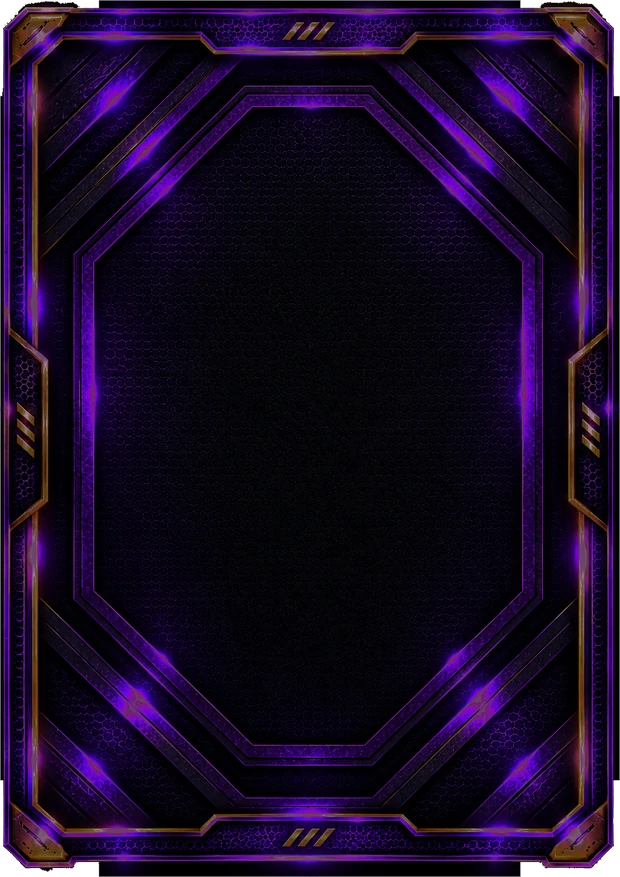
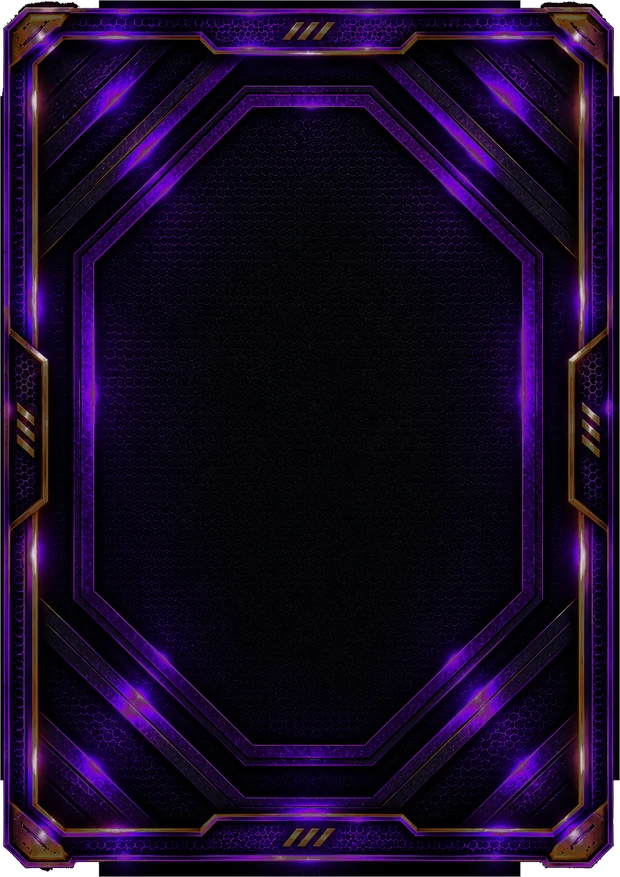
Más luz en el resplandor, y el dorado de la épica brilla dorado
Dos cosas suyas, las dos medidas.

1. MÁS INTENSIDAD, NO MÁS VELOCIDAD. "haz que sea un poco más fuerte en
   ambas, y en épica un poco más ... no la velocidad, sino la intensidad y
   brillo de la luz". Así que sube el brillo de la capa de resplandor
   (REFUERZO 1,20 en la rara y 1,38 en la épica) y el latido se queda como
   estaba: 3,6 s, de 1 a 0,45.

   No contradice lo de antes —aquello era el resplandor REVENTADO EN
   BLANCO—: esto es más luz CON su color. La rara topa en 223 y la épica en
   235 sobre 255, ninguna llega a los 250 donde el color se pierde, y la
   saturación de lo que pasa de 170 se queda en 0,74 y 0,46.

   Y el refuerzo no recorta canal a canal: si un canal se pasa de 1, se
   escala el píxel entero hasta que el más alto valga 1. El tono no se mueve.

2. EL DORADO DE LA ÉPICA BRILLABA VIOLETA. Lo cazó él: "cuando la épica
   brille en las zonas doradas, el brillo sea dorado". Medido: el 17,43% de
   los píxeles dorados con luz viraba a violeta o azul.

   Dos causas y dos arreglos:

   - El desenfoque que da "el color de la zona" iba a 31 px, así que la zona
     de un reventón dorado ya incluía las barras violetas de al lado. Ahora
     va a 0,4% del ancho. Es un cambio con precio y está en la tabla del
     archivo: menos fuga, menos color recuperan los blancos puros.
   - Y había UN SOLO CAMINO: a todo lo lavado se le ponía el color de su
     zona. Ahora son dos. Si el píxel conserva algo de tono, se le SUBE el
[…]

diff --git a/juego/juego.html b/juego/juego.html
@@ -820,6 +820,9 @@ button{font:inherit;color:inherit;background:none;border:none;cursor:pointer}
 .carta.tapada::after,.naipe .cara.dorso > .recorte::after{content:'';position:absolute;
   inset:0;pointer-events:none;background:var(--c-luz-rev) center/100% 100% no-repeat;
   will-change:opacity;animation:latido 3.6s ease-in-out infinite}
+/* El recorrido y la velocidad NO se tocan —"no la velocidad, sino la intensidad y brillo
+   de la luz"—: lo que sube es cuánta luz tiene la capa, y eso se hace al preparar el
+   archivo, en herramientas/preparar-marcos-rareza.py (REFUERZO). */
 @keyframes latido{0%,100%{opacity:1}50%{opacity:.45}}
 /* Quien haya pedido menos movimiento en su móvil se queda con la carta a plena luz. */
 @media (prefers-reduced-motion:reduce){

diff --git a/herramientas/preparar-marcos-rareza.py b/herramientas/preparar-marcos-rareza.py
@@ -63,26 +63,76 @@ TECHO, COMPRESION = 210, 0.34
 # Por debajo de esta saturación el píxel ya no dice de qué color era: se le pone el de su
 # zona. Por encima, se respeta el suyo.
 SAT_MINIMA = 0.45
-DESENFOQUE = 0.03               # el radio del desenfoque, en fracción del ancho
+# EL DESENFOQUE VA EN 0,4% DEL ANCHO, NO EN 3%, y esto costó una vuelta. Con 3% —31 px en
+# un archivo de 1024— el "color de la zona" de un reventón DORADO del marco épico ya incluía
+# las barras violetas de al lado, y el reventón volvía violeta: medido, el 17,43% de los
+# píxeles dorados con luz viraba a violeta o azul. Lo cazó él: "cuando la épica brille en
+# las zonas doradas, el brillo sea dorado, y cuando sea en las zonas del otro color, sean
+# de ese color".
+#
+# Es un cambio con precio y está medido. Cuanto más corto el radio, menos fuga pero menos
+# color recuperan los reventones que salieron blancos del todo:
+#
+#     radio    dorados que viran a violeta    saturación que recuperan los blancos
+#      3,0%          —                                0,352
+#      1,0%        2,96%                              0,312
+#      0,6%        1,83%                              0,272
+#      0,4%        1,01%                              0,233   ← elegido
+#      0,2%        0,26%                              0,171
+#
+# Se elige 0,4%: diecisiete veces menos fuga que al principio y los blancos siguen
+# recuperando color de verdad (0,233 contra el 0,02 que traían).
+#
+# SE PROBÓ TAMBIÉN pesar el desenfoque por saturación, para que mandaran los vecinos con
+# color. Es MUCHO PEOR: el violeta cubre el 12% de la carta y el dorado el 2%, así que
+# pesando por color el violeta gana en todas partes —del 21% de fuga a 4 px al 96% a 31—.
+DESENFOQUE = 0.004
+# Y por debajo de esta saturación se considera que el píxel ha perdido su color del todo y
+# se le puede poner el de su zona. Por encima CONSERVA EL SUYO y sólo se le sube: un dorado
+# desvaído vuelve dorado más fuerte, nunca violeta.
+SAT_PROPIA = 0.10
 
 # Los dos extremos de qué es resplandor, y cuánto se apaga la capa de abajo.
 LUZ_0, LUZ_1 = 0.20, 0.55       # por debajo no es luz; por encima es luz del todo
 SAT_LUZ = 0.35                  # el color que hace falta para contar como neón
 APAGADO = 0.42                  # a cuánto se queda el resplandor en la capa de abajo
 
+# CUÁNTA LUZ LLEVA EL RESPLANDOR, por marco. Lo pidió él viéndolo: "haz que sea un poco
+# más fuerte en ambas, y en épica un poco más, pero sin pasarse ... no la velocidad, sino
+# la intensidad y brillo de la luz". Así que sube el brillo de la capa, no el recorrido ni
+# el ritmo del latido, que se quedan como estaban (3,6 s, de 1 a 0,45).
+#
+# No contradice lo de antes. Aquello era que el resplandor salía REVENTADO EN BLANCO, sin
+# color; esto es más luz CON su color. Medido después de subirlo: la rara topa en 223 y la
+# épica en 235 sobre 255, o sea ninguna llega a los 250 donde el color se pierde, y la
+# saturación de lo que pasa de 170 se queda en 0,74 y 0,46.
+#
+# Y por eso NO recorta canal a canal: multiplicar y recortar vira hacia el blanco, que es
+# justo lo que costó arreglar. Si algún canal se pasa de 1, se escala el píxel ENTERO hasta
+# que el más alto valga 1: sube todo lo que puede sin cambiar de tono.
+REFUERZO = {'rare': 1.20, 'epic': 1.38}
 
-def partirLuz(im):
-    """Devuelve (marco apagado, resplandor suelto). Sumados dan el original exacto."""
+
+def partirLuz(im, refuerzo=1.0):
+    """Devuelve (marco apagado, resplandor suelto). A opacidad 1 el resultado es el
+    original con el resplandor multiplicado por `refuerzo`, sin virar de color."""
     a = np.asarray(im.convert('RGB'), dtype=np.float32) / 255.0
     luz = a @ np.array([0.299, 0.587, 0.114], dtype=np.float32)
     mx, mn = a.max(2), a.min(2)
     sat = np.where(mx > 1e-6, (mx - mn) / np.maximum(mx, 1e-6), 0.0)
     fuerza = (np.clip((luz - LUZ_0) / (LUZ_1 - LUZ_0), 0, 1)
               * np.clip(sat / SAT_LUZ, 0, 1))
+
+    # El resplandor reforzado: se escala el píxel entero y, si algún canal se pasa, se
+    # baja el píxel entero hasta que el más alto valga 1. El tono no se mueve.
+    subido = a * refuerzo
+    tope = np.maximum(subido.max(2, keepdims=True), 1e-6)
+    subido = subido * np.minimum(1.0, 1.0 / tope)
+
     base = a * (1 - fuerza * (1 - APAGADO))[..., None]
     apagado = Image.fromarray((np.clip(base, 0, 1) * 255 + 0.5).astype(np.uint8), 'RGB')
     brillo = Image.fromarray(
-        np.dstack([(a * 255 + 0.5).astype(np.uint8),
+        np.dstack([(np.clip(subido, 0, 1) * 255 + 0.5).astype(np.uint8),
                    (fuerza * 255 + 0.5).astype(np.uint8)]), 'RGBA')
     return apagado, brillo, float(fuerza.mean())
 
@@ -97,21 +147,38 @@ def apagarBrillos(im):
     luz = rgb @ np.array([0.299, 0.587, 0.114], dtype=np.float32)
     techo = TECHO / 255.0
 
-    # 1. EL COLOR DE LA ZONA. La saturación se mide como (max-min)/max, que es la de HSV;
-    #    donde el píxel la ha perdido y su zona sí tiene, se le devuelve el tono de la zona
-    #    conservando SU brillo — el reventón sigue siendo el punto más luminoso, pero con
-    #    color.
+    # 1. EL COLOR. Dos caminos distintos, y la diferencia entre ellos es lo que impide que
+    #    un dorado acabe violeta:
+    #
+    #    a) EL PÍXEL TODAVÍA TIENE TONO PROPIO (saturación por encima de SAT_PROPIA). Se le
+    #       SUBE el suyo y no se le toca el tono: se acerca el canal más bajo al más alto,
+    #       que es subir la saturación conservando el color exacto.
+    #    b) EL PÍXEL ES BLANCO Y NO DICE DE QUÉ COLOR ERA. Sólo entonces se le pone el de su
+    #       zona, sacado del desenfoque corto.
+    #
+    #    Antes había un solo camino —siempre el de la zona, pesado por lo lavado que
+    #    estuviera— y por eso los reventones dorados del épico se volvían violetas.
     def sat(a):
         mx, mn = a.max(2), a.min(2)
         return np.where(mx > 1e-6, (mx - mn) / np.maximum(mx, 1e-6), 0.0)
 
     sp, sz = sat(rgb), sat(zona)
-    tono = zona / np.maximum(zona.max(2, keepdims=True), 1e-6)      # la zona, normalizada
-    # cuánto se le devuelve: nada si ya tiene color, todo si está blanco del todo
-    mezcla = np.clip((SAT_MINIMA - sp) / SAT_MINIMA, 0, 1) * np.clip(sz / SAT_MINIMA, 0, 1)
-    mezcla = (mezcla * np.clip((luz - 0.55) / 0.35, 0, 1))[..., None]   # sólo donde hay luz
-    salida = rgb * (1 - mezcla) + (tono * luz[..., None] / np.maximum(
-        tono @ np.array([0.299, 0.587, 0.114], dtype=np.float32), 1e-6)[..., None]) * mezcla
+    hayLuz = np.clip((luz - 0.55) / 0.35, 0, 1)
+    objetivo = np.minimum(np.maximum(sp, sz), SAT_MINIMA)     # a cuánto se quiere llegar
+
+    # a) subirle SU saturación: se escala la distancia de cada canal al más alto
+    mx = rgb.max(2, keepdims=True)
+    k = np.where(sp[..., None] > 1e-4, objetivo[..., None] / np.maximum(sp[..., None], 1e-4), 1.0)
+    k = 1 + (np.minimum(k, 3.0) - 1) * hayLuz[..., None]       # sólo donde hay luz
+    propio = mx - (mx - rgb) * k
+
+    # b) y sólo para lo que es blanco del todo, el tono de su zona
+    tono = zona / np.maximum(zona.max(2, keepdims=True), 1e-6)
+    deZona = tono * (luz / np.maximum(
+        tono @ np.array([0.299, 0.587, 0.114], dtype=np.float32), 1e-6))[..., None]
+    mezcla = (np.clip((SAT_PROPIA - sp) / SAT_PROPIA, 0, 1)
+              * np.clip(sz / SAT_MINIMA, 0, 1) * hayLuz)[..., None]
+    salida = propio * (1 - mezcla) + deZona * mezcla
 
     # 2. EL PICO. Se comprime por encima del techo, conservando el color: se escala el
     #    píxel entero por el factor que le toque a su luz, no se recorta canal a canal
@@ -189,7 +256,7 @@ for orig, nom in PIEZAS:
 
     # El marco se parte ANTES de recortar y escalar, para que las dos capas salgan del
     # mismo original y encajen píxel a píxel al superponerlas.
-    apagado, brillo, medio = partirLuz(im)
+    apagado, brillo, medio = partirLuz(im, REFUERZO.get(orig.split('-')[0], 1.0))
     alfa = recortar(im, caja).crop(caja).resize((ANCHO, ALTO), Image.LANCZOS).getchannel('A')
 
     capas = []
